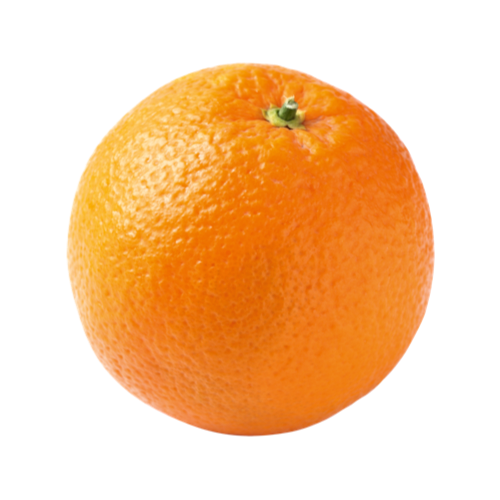
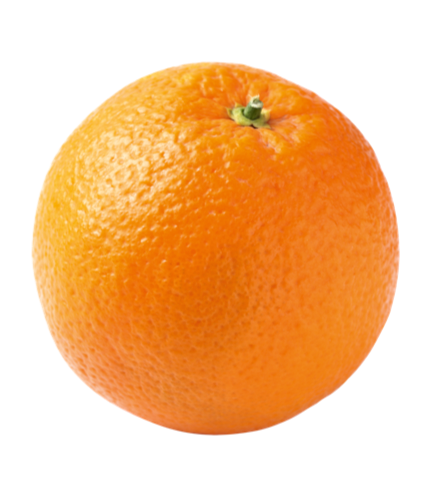
Updated header styling, everything looks good, ready to work on search bar and audio

diff --git a/style.css b/style.css
@@ -1,19 +1,19 @@
 body {
     background-color: #afbaee;
     margin: 0;
+    background-image: url('orange.png');
+    background-repeat: no-repeat;
+    background-size: 10.5rem;
 }
 
 header {
-    background-image:
-    linear-gradient(to right, rgba(175, 186, 238, 0.52), rgba(221, 179, 40, 0.73)),
-    url('orange.png');
-    background-repeat: no-repeat;
+    background: linear-gradient(
+        to right, 
+        rgba(175, 186, 238, 0), rgba(221, 179, 40, 0.73));
     width: 100%;
     color: rgb(37, 90, 164);
-    padding: 0;
     margin: 0;
     font-family: monaco;
-    color: rgb(37, 90, 164);
 }
 
 #nameOfPage {
